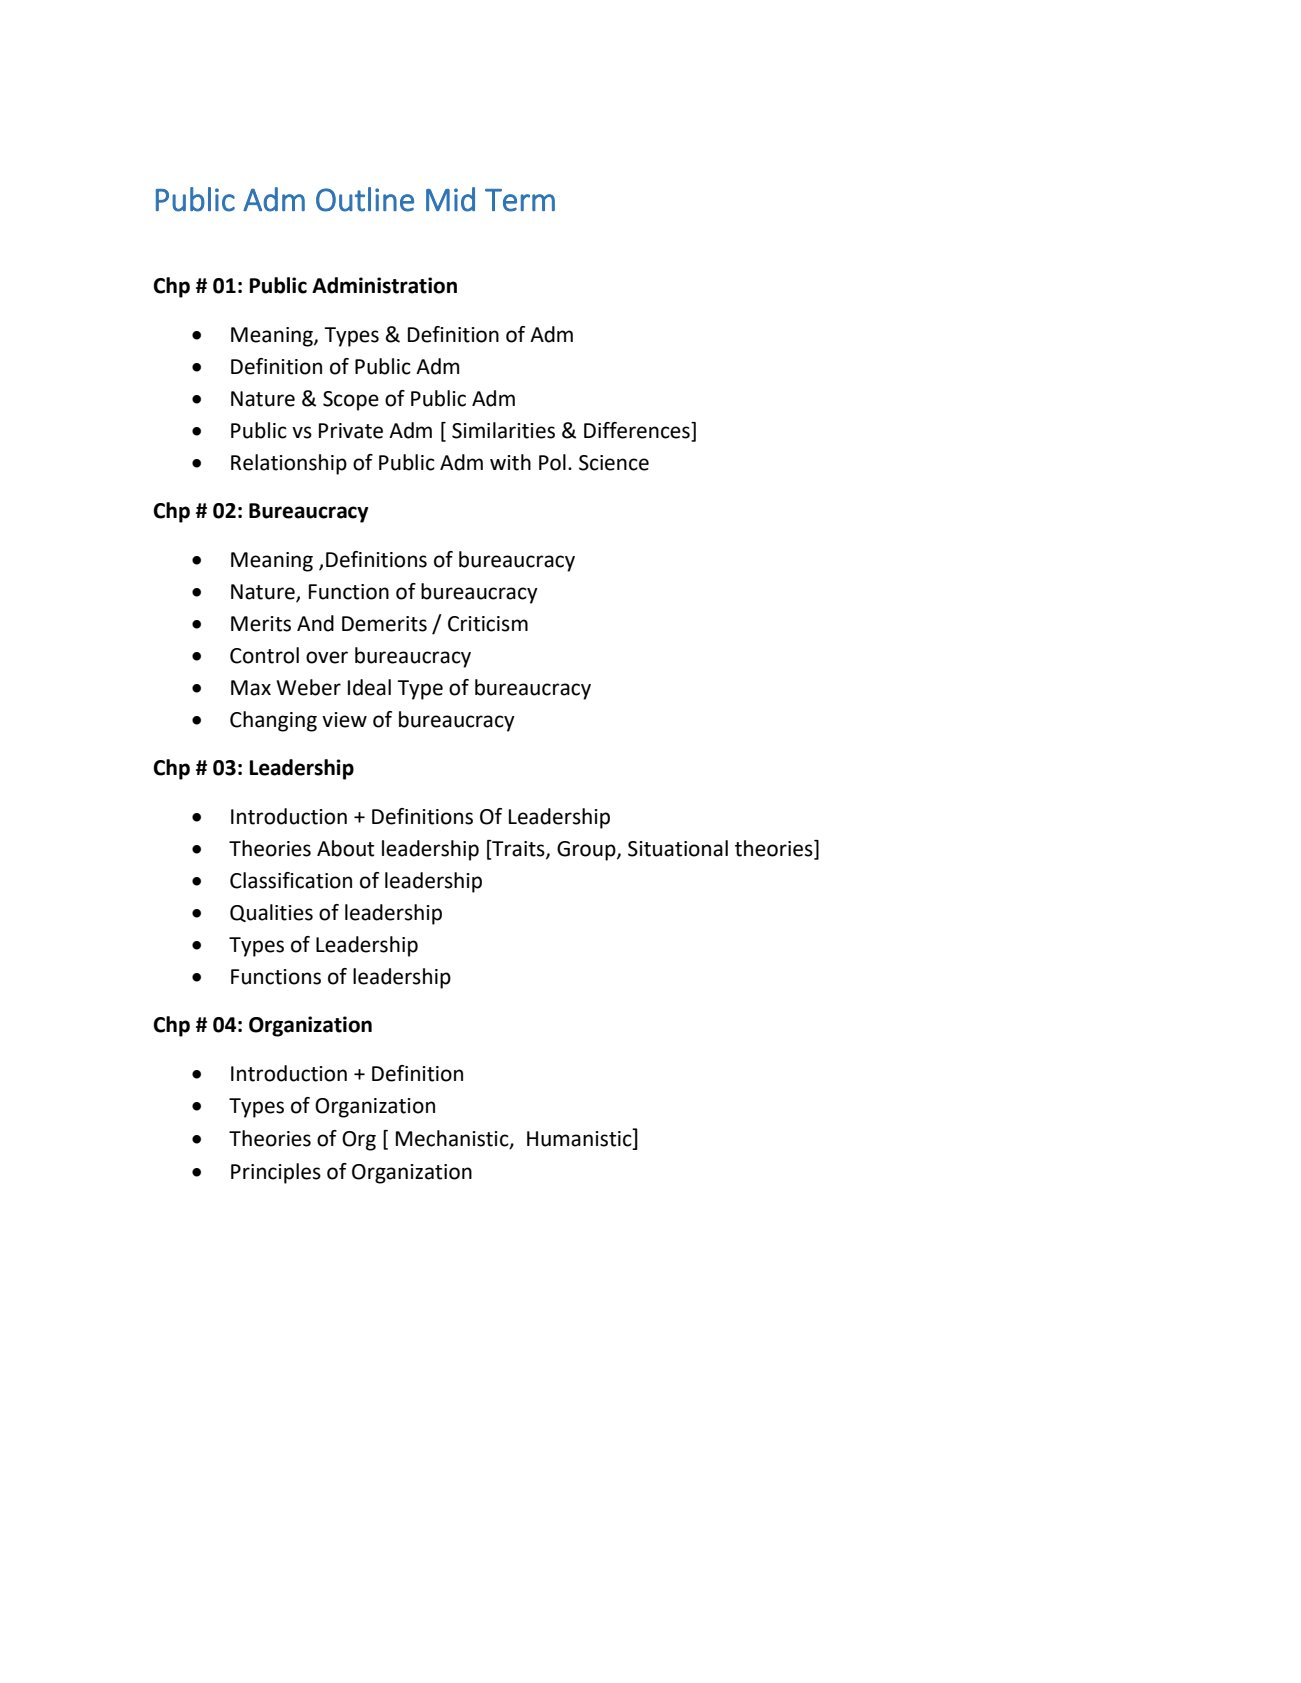
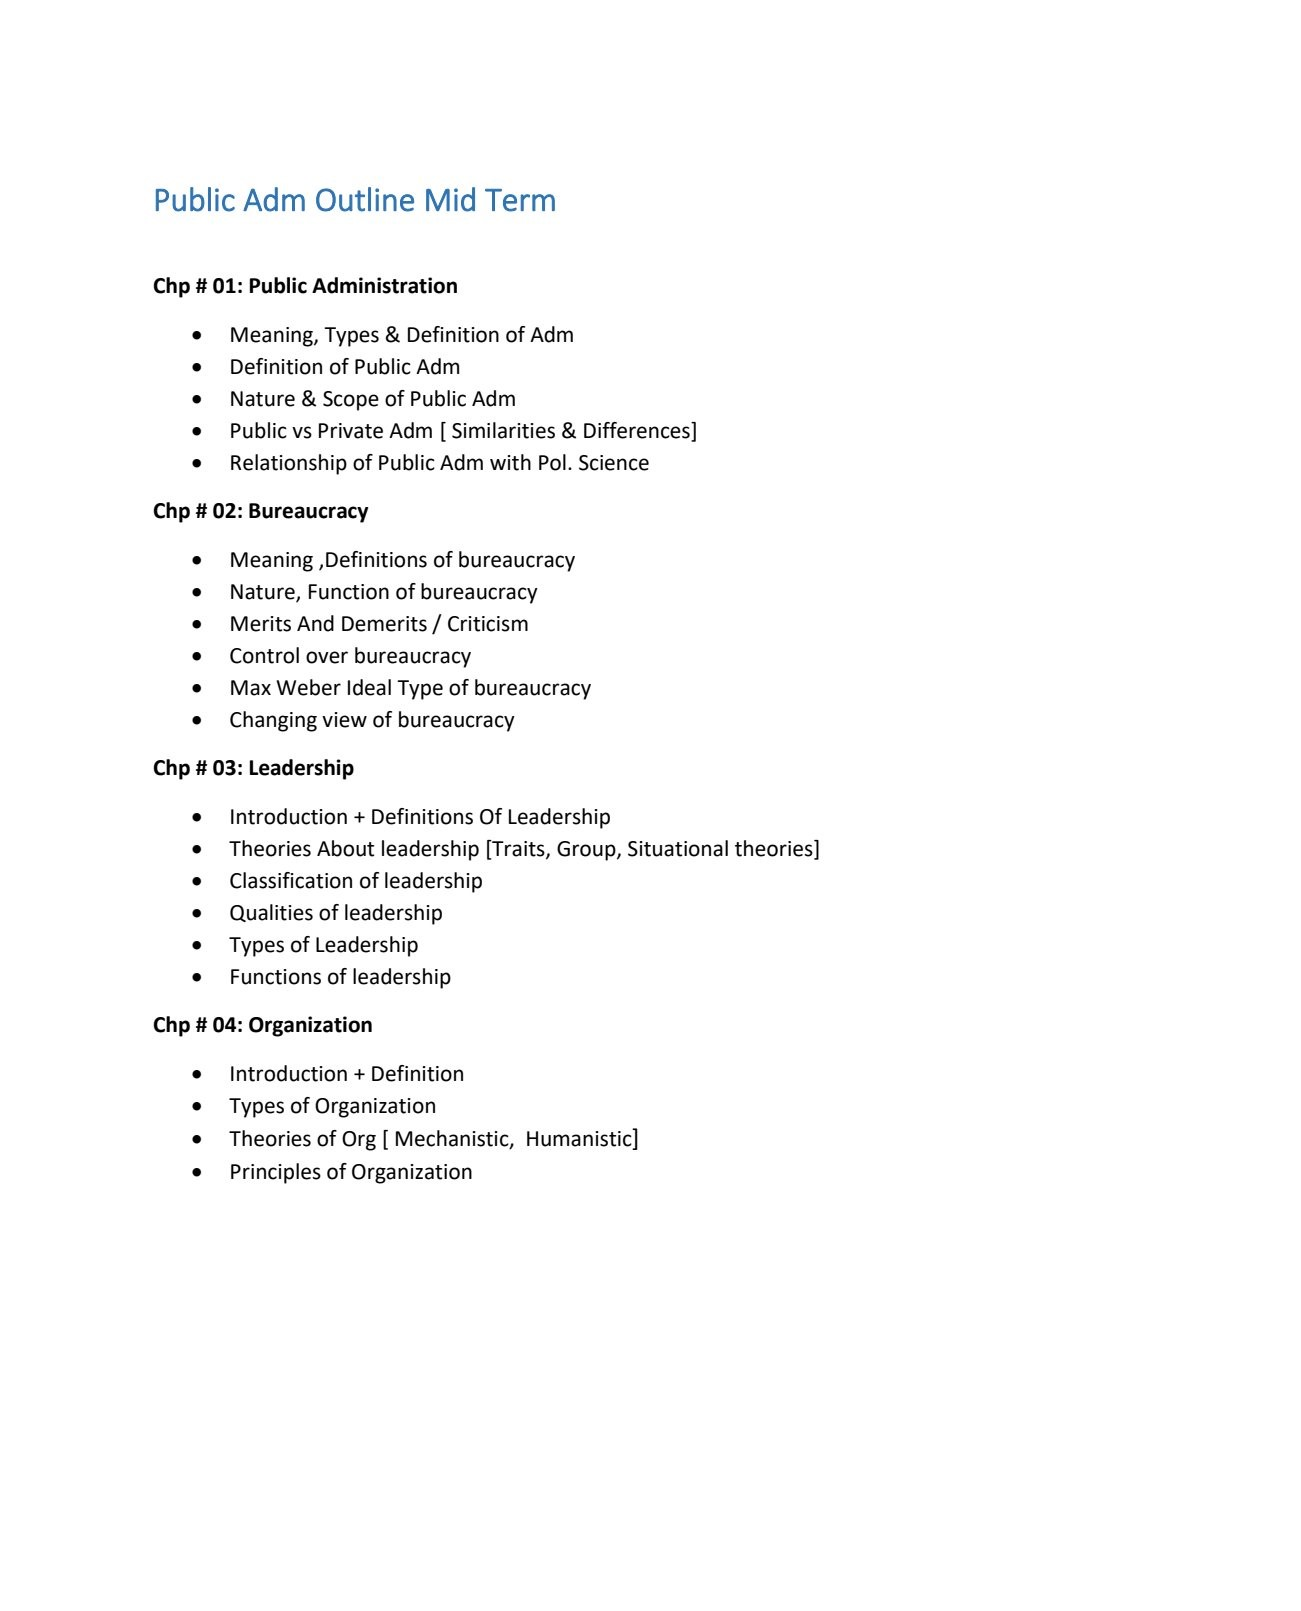
Yes

Changed region(s): [[0.123, 0.0931, 0.6457, 0.7449]]

diff --git a/Public Administration.html b/Public Administration.html
@@ -9,8 +9,8 @@
     <h1>Public administration By Prof. Shafi Ullah</h1>
     <img src="shafi.jpg" width="150" height="150" align="right">
     <h4>Outline of Public Administration</h4>
-    <img src="Pub.Adm.jpg" height="150">
-    <a href="Pub.Adm.jpg" download="Pub.Adm.jpg">Download Image</a>
+    <img src="Pub Adm Outline Mid Term.jpeg" height="350">
+    <a href="Pub Adm Outline Mid Term.jpeg" download="Public Administration Outline Mid Term.jpeg">Download Image</a>
     <br><br>
     <h2>Public Administration Notes By M.Suleman</h2>
         <embed src="Public Administration By Suleman Safi .pdf" type="application/pdf" width="50%" height="300px">
